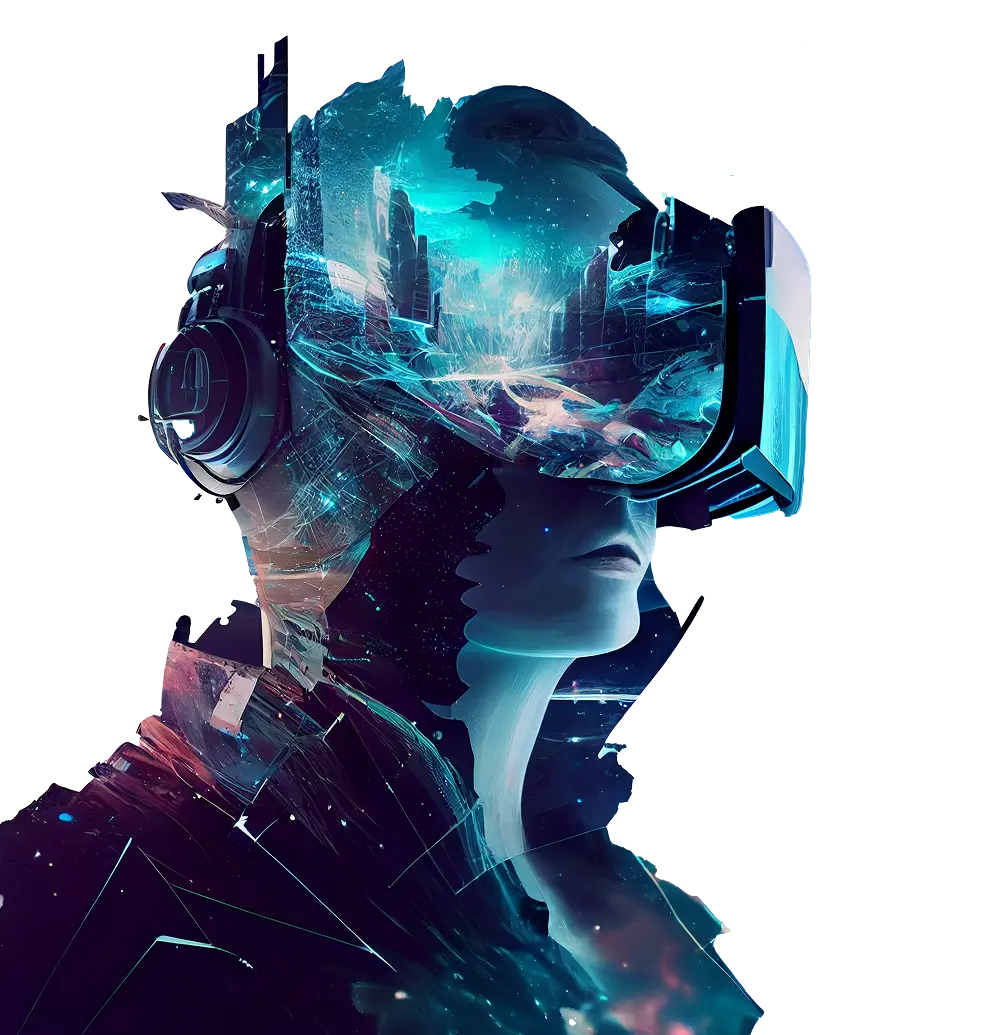
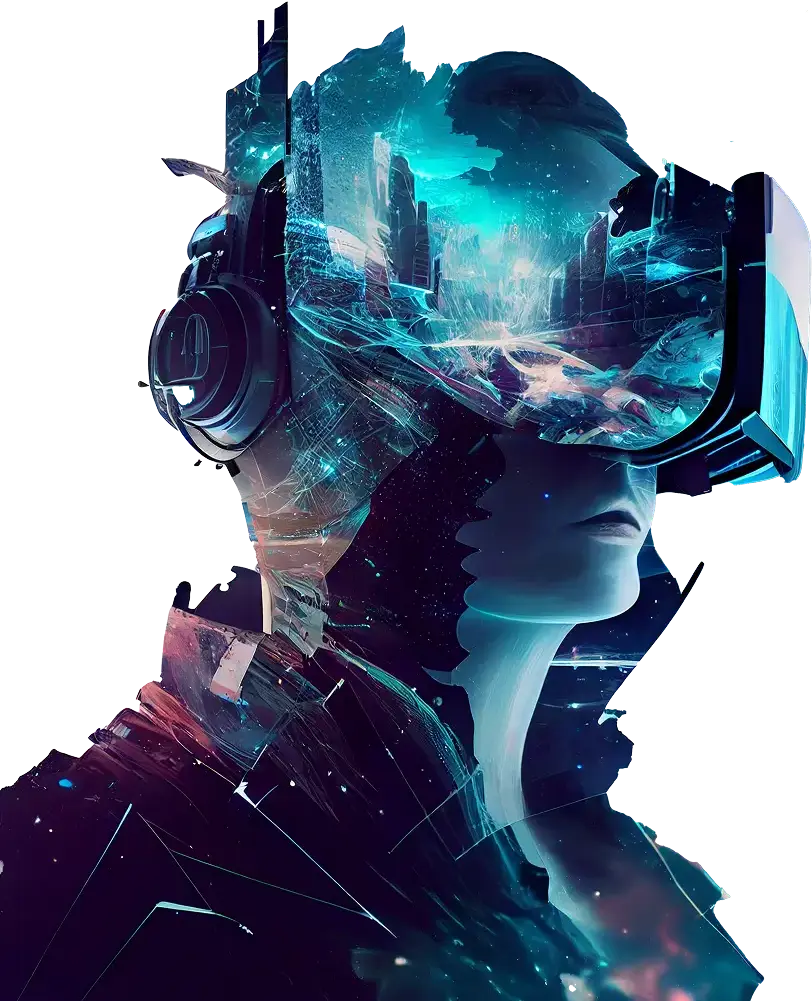
Image correction and Font Correction

diff --git a/src/components/menu-section/index.tsx b/src/components/menu-section/index.tsx
@@ -88,12 +88,17 @@ export function MenuSection() {
                 return (
                   <NavigationMenuItem key={index}>
                     <NavigationMenuTrigger className="bg-transparent 2xl:text-xl">
-                      <Link
-                        href={link.path || '#'}
-                        className={`hover:!text-[#0B68FF] ${isLinkActive(link) ? '!text-[#0B68FF]' : ''}`}
-                      >
-                        {link.name}
-                      </Link>
+                      <NavigationMenuLink
+                    asChild
+                    className={
+                      (navigationMenuTriggerStyle(),
+                        "bg-transparent font-medium 2xl:text-xl")
+                    }
+                  >
+                    <Link href={link.path} className={`hover:!text-[#0B68FF] ${isLinkActive(link) ? '!text-[#0B68FF]' : ''}`}>
+                      {link.name}
+                    </Link>
+                  </NavigationMenuLink>
                     </NavigationMenuTrigger>
                     <NavigationMenuContent>
                       <ul className="grid w-[200px] gap-4">

diff --git a/src/components/common/our-career-form/index.tsx b/src/components/common/our-career-form/index.tsx
@@ -487,7 +487,7 @@ const OurCareerFormSection: React.FC<CareerFormProps> = ({
                             ref={ref}
                             className="h-16 w-full rounded-none border border-gray-300 px-3 py-2"
                           />
-                          {value instanceof File && (
+                          {typeof File !== "undefined" && value instanceof File && (
                             <p className="text-xs text-gray-600">
                               Selected: {value.name} (
                               {(value.size / 1024 / 1024).toFixed(2)} MB)

diff --git a/src/components/common/hero-section/index.tsx b/src/components/common/hero-section/index.tsx
@@ -47,7 +47,7 @@ const HeroSection: React.FC<HeadingSectionProps> = ({
               src={url}
               alt={`${title.join(' ')} - Hero illustration`}
               fill
-              className="object-contain object-left rounded-xl"
+              className="object-contain object-right rounded-xl"
               priority
             />
           </div>
